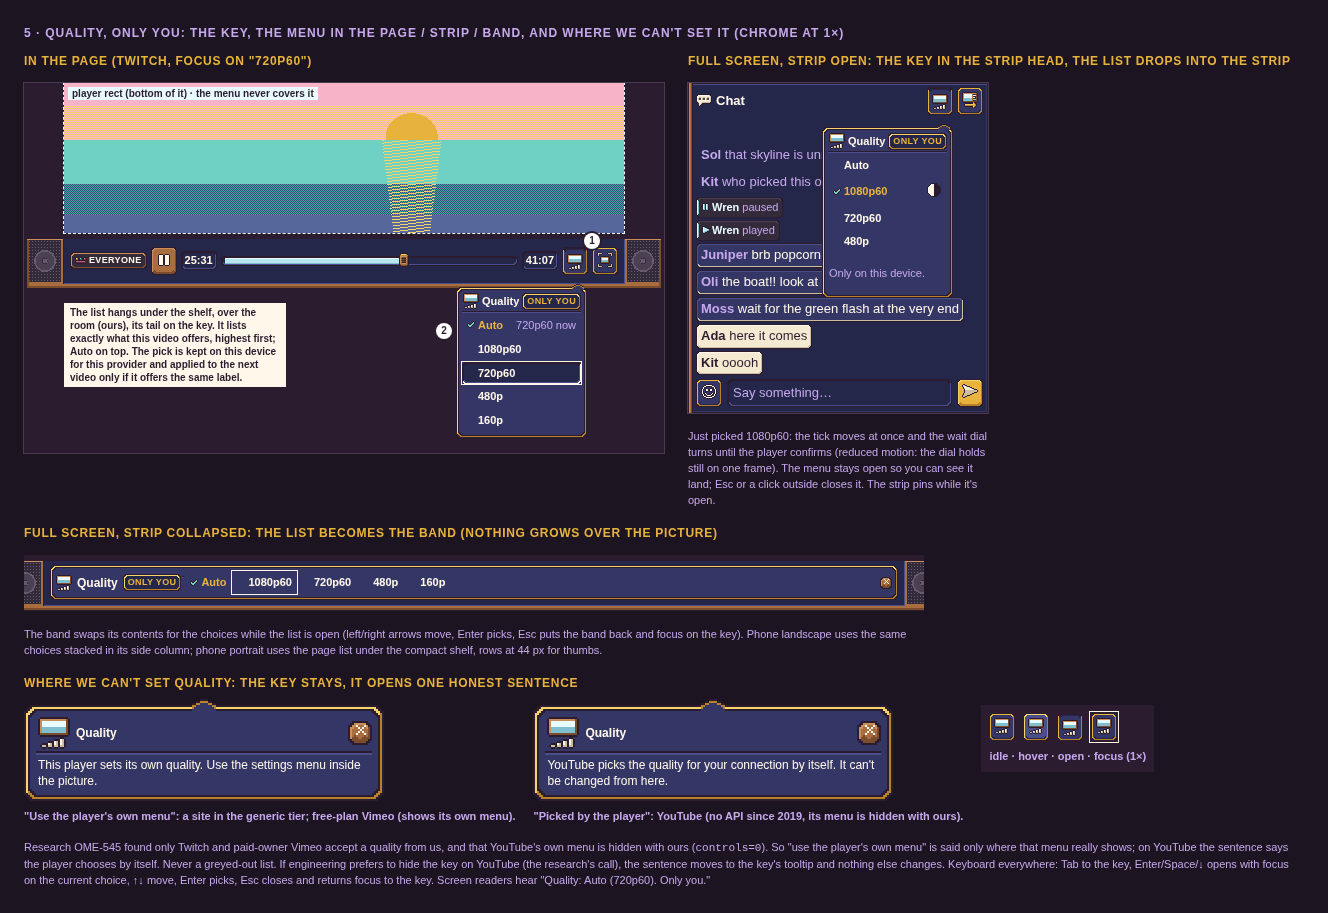
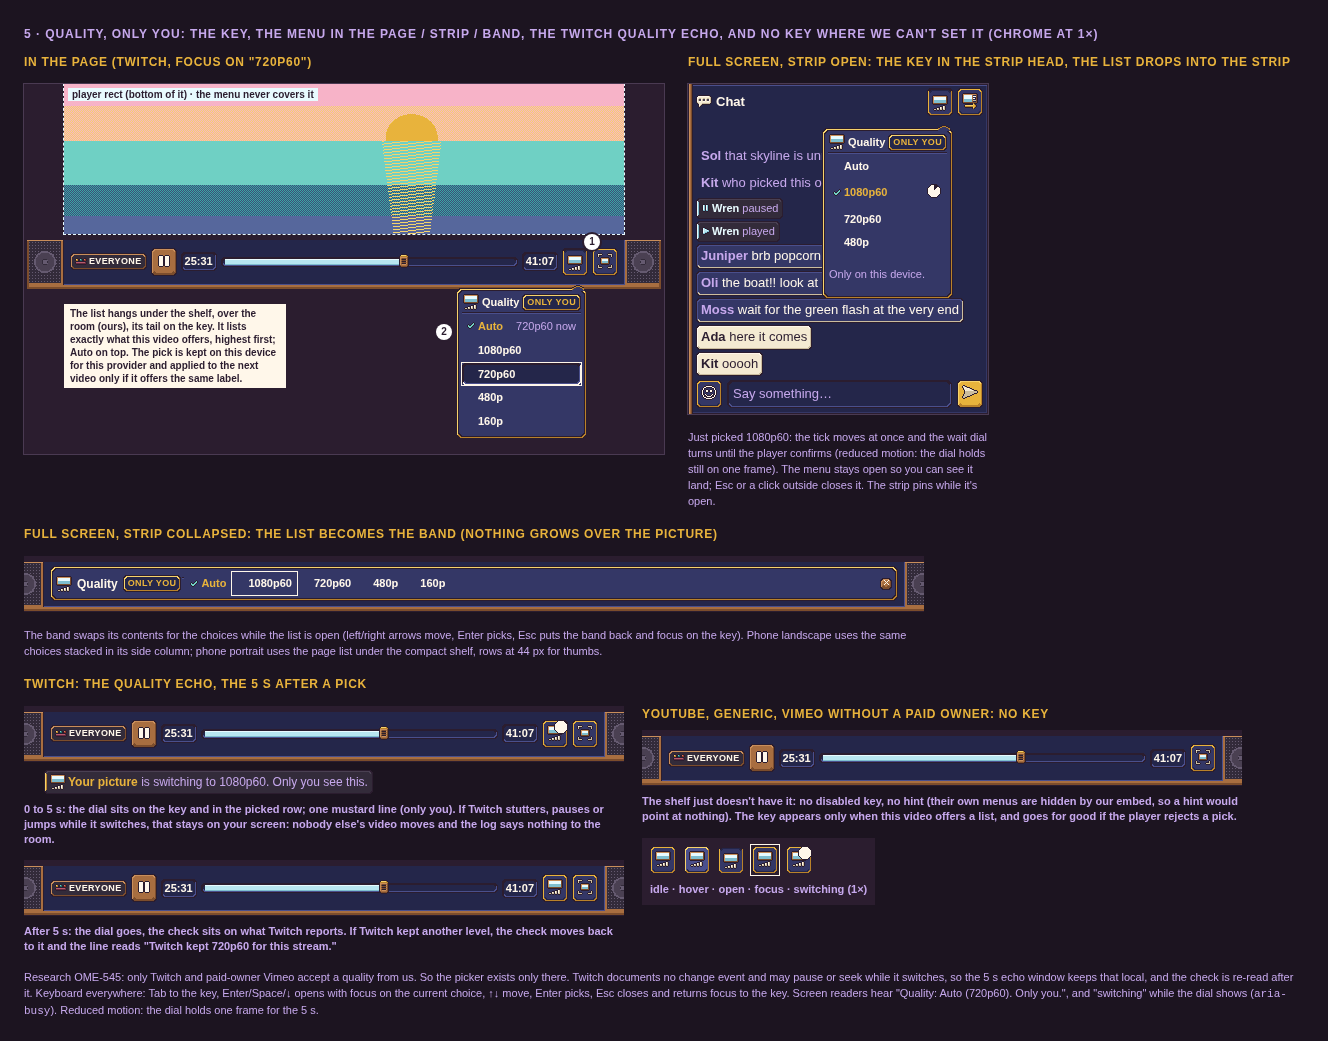
fix(assets): set (k) quality per OME-545 — no key where quality can't be set (no hint, no note state), Twitch quality echo state (5 s wait dial on the key, aria-busy, an only-you system line, then the check settles on what Twitch reports) (OME-541)

diff --git a/assets/preview/m7.html b/assets/preview/m7.html
@@ -362,7 +362,7 @@
 
 <!-- =============================================================== 5. quality (only you) -->
 <section id="m7-quality">
-  <h2>5 · Quality, only you: the key, the menu in the page / strip / band, and where we can't set it (chrome at 1×)</h2>
+  <h2>5 · Quality, only you: the key, the menu in the page / strip / band, the Twitch quality echo, and no key where we can't set it (chrome at 1×)</h2>
   <div class="row">
     <div class="col">
       <h3 class="cap">In the page (Twitch, focus on "720p60")</h3>
@@ -419,36 +419,33 @@
   </div>
   <div class="row" style="margin-top:16px">
     <div class="col">
-      <h3 class="cap">Where we can't set quality: the key stays, it opens one honest sentence</h3>
+      <h3 class="cap">Twitch: the quality echo, the 5 s after a pick</h3>
       <div class="row" style="gap:18px">
         <div class="col">
-          <div class="ui-emotes ui-modmenu ui-qmenu is-note is-below" role="dialog" aria-label="Quality">
-            <div class="head"><span class="ui-sprite ui-icon-quality"></span><span class="name">Quality</span><button class="ui-sprite ui-qx" aria-label="Close"></button></div>
-            <span class="ui-modsep"></span>
-            <p>This player sets its own quality. Use the settings menu inside the picture.</p>
-          </div>
-          <span class="lbl" style="font-size:11px;color:var(--ui-muted)">"Use the player's own menu": a site in the generic tier; free-plan Vimeo (shows its own menu).</span>
+          <div class="screen ui-room" style="width:600px;height:56px;outline:0"><div class="ui-tv-shelf" style="left:20px;top:6px;width:560px"><div class="ui-transport" role="group" aria-label="Shared playback: affects everyone"><span class="ui-chip"><span class="ui-sprite ui-glyph-everyone"></span>Everyone</span><button class="ui-button shared icon" aria-label="Pause for everyone"><span class="ui-sprite ui-icon-pause"></span></button><span class="ui-readout">25:31</span><div class="ui-seek" style="--pos:0.62"><span class="ui-seek-fill"></span><span class="ui-sprite ui-seek-head ui-seek-head-idle"></span></div><span class="ui-readout">41:07</span><button class="ui-button self icon is-switching" aria-label="Quality: switching to 1080p60. Only you." aria-busy="true"><span class="ui-sprite ui-icon-quality"></span><span class="ui-sprite ui-wait ui-wait-3" style="animation:none"></span></button><button class="ui-button self icon" aria-label="Full screen"><span class="ui-sprite ui-icon-fullscreen"></span></button></div></div></div>
+          <div class="ui-room hj-log" style="display:grid;gap:4px;padding-left:20px"><p class="ui-sysline self"><span class="ui-sprite ui-icon-quality"></span><span><b>Your picture</b> is switching to 1080p60. Only you see this.</span></p></div>
+          <span class="lbl" style="font-size:11px;color:var(--ui-muted);max-width:600px">0 to 5 s: the dial sits on the key and in the picked row; one mustard line (only you). If Twitch stutters, pauses or jumps while it switches, that stays on your screen: nobody else's video moves and the log says nothing to the room.</span>
+          <div class="screen ui-room" style="width:600px;height:56px;outline:0;margin-top:6px"><div class="ui-tv-shelf" style="left:20px;top:6px;width:560px"><div class="ui-transport" role="group" aria-label="Shared playback: affects everyone"><span class="ui-chip"><span class="ui-sprite ui-glyph-everyone"></span>Everyone</span><button class="ui-button shared icon" aria-label="Pause for everyone"><span class="ui-sprite ui-icon-pause"></span></button><span class="ui-readout">25:31</span><div class="ui-seek" style="--pos:0.62"><span class="ui-seek-fill"></span><span class="ui-sprite ui-seek-head ui-seek-head-idle"></span></div><span class="ui-readout">41:07</span><button class="ui-button self icon" aria-label="Quality: 1080p60. Only you."><span class="ui-sprite ui-icon-quality"></span></button><button class="ui-button self icon" aria-label="Full screen"><span class="ui-sprite ui-icon-fullscreen"></span></button></div></div></div>
+          <span class="lbl" style="font-size:11px;color:var(--ui-muted);max-width:600px">After 5 s: the dial goes, the check sits on what Twitch reports. If Twitch kept another level, the check moves back to it and the line reads "Twitch kept 720p60 for this stream."</span>
         </div>
         <div class="col">
-          <div class="ui-emotes ui-modmenu ui-qmenu is-note is-below" role="dialog" aria-label="Quality">
-            <div class="head"><span class="ui-sprite ui-icon-quality"></span><span class="name">Quality</span><button class="ui-sprite ui-qx" aria-label="Close"></button></div>
-            <span class="ui-modsep"></span>
-            <p>YouTube picks the quality for your connection by itself. It can't be changed from here.</p>
+          <h3 class="cap" style="margin:0">YouTube, generic, Vimeo without a paid owner: no key</h3>
+          <div class="screen ui-room" style="width:600px;height:56px;outline:0"><div class="ui-tv-shelf" style="left:20px;top:6px;width:560px"><div class="ui-transport" role="group" aria-label="Shared playback: affects everyone"><span class="ui-chip"><span class="ui-sprite ui-glyph-everyone"></span>Everyone</span><button class="ui-button shared icon" aria-label="Pause for everyone"><span class="ui-sprite ui-icon-pause"></span></button><span class="ui-readout">25:31</span><div class="ui-seek" style="--pos:0.62"><span class="ui-seek-fill"></span><span class="ui-sprite ui-seek-head ui-seek-head-idle"></span></div><span class="ui-readout">41:07</span><button class="ui-button self icon" aria-label="Full screen"><span class="ui-sprite ui-icon-fullscreen"></span></button></div></div></div>
+          <span class="lbl" style="font-size:11px;color:var(--ui-muted);max-width:600px">The shelf just doesn't have it: no disabled key, no hint (their own menus are hidden by our embed, so a hint would point at nothing). The key appears only when this video offers a list, and goes for good if the player rejects a pick.</span>
+          <div class="col ui-room" style="background:var(--ui-page);padding:8px;margin-top:6px">
+            <div class="row" style="gap:8px">
+              <button class="ui-button self icon" aria-label="Quality"><span class="ui-sprite ui-icon-quality"></span></button>
+              <button class="ui-button self icon is-hover" aria-label="Quality"><span class="ui-sprite ui-icon-quality"></span></button>
+              <button class="ui-button self icon is-press" aria-label="Quality"><span class="ui-sprite ui-icon-quality"></span></button>
+              <button class="ui-button self icon" style="outline:var(--ui-px) solid var(--ui-text);outline-offset:var(--ui-px)" aria-label="Quality"><span class="ui-sprite ui-icon-quality"></span></button>
+              <button class="ui-button self icon is-switching" aria-label="Quality: switching to 1080p60. Only you." aria-busy="true"><span class="ui-sprite ui-icon-quality"></span><span class="ui-sprite ui-wait ui-wait-3" style="animation:none"></span></button>
+            </div>
+            <span class="lbl" style="font-size:11px;color:var(--ui-muted)">idle · hover · open · focus · switching (1×)</span>
           </div>
-          <span class="lbl" style="font-size:11px;color:var(--ui-muted)">"Picked by the player": YouTube (no API since 2019, its menu is hidden with ours).</span>
-        </div>
-        <div class="col ui-room" style="background:var(--ui-page);padding:8px">
-          <div class="row" style="gap:8px">
-            <button class="ui-button self icon" aria-label="Quality"><span class="ui-sprite ui-icon-quality"></span></button>
-            <button class="ui-button self icon is-hover" aria-label="Quality"><span class="ui-sprite ui-icon-quality"></span></button>
-            <button class="ui-button self icon is-press" aria-label="Quality"><span class="ui-sprite ui-icon-quality"></span></button>
-            <button class="ui-button self icon" style="outline:var(--ui-px) solid var(--ui-text);outline-offset:var(--ui-px)" aria-label="Quality"><span class="ui-sprite ui-icon-quality"></span></button>
-          </div>
-          <span class="lbl" style="font-size:11px;color:var(--ui-muted)">idle · hover · open · focus (1×)</span>
         </div>
       </div>
-      <p class="cap-p">Research OME-545 found only Twitch and paid-owner Vimeo accept a quality from us, and that YouTube's own menu is hidden with ours (<code>controls=0</code>). So "use the player's own menu" is said only where that menu really shows; on YouTube the sentence says the player chooses by itself. Never a greyed-out list. If engineering prefers to hide the key on YouTube (the research's call), the sentence moves to the key's tooltip and nothing else changes.
-      Keyboard everywhere: Tab to the key, Enter/Space/↓ opens with focus on the current choice, ↑↓ move, Enter picks, Esc closes and returns focus to the key. Screen readers hear "Quality: Auto (720p60). Only you."</p>
+      <p class="cap-p">Research OME-545: only Twitch and paid-owner Vimeo accept a quality from us. So the picker exists only there. Twitch documents no change event and may pause or seek while it switches, so the 5 s echo window keeps that local, and the check is re-read after it.
+      Keyboard everywhere: Tab to the key, Enter/Space/↓ opens with focus on the current choice, ↑↓ move, Enter picks, Esc closes and returns focus to the key. Screen readers hear "Quality: Auto (720p60). Only you.", and "switching" while the dial shows (<code>aria-busy</code>). Reduced motion: the dial holds one frame for the 5 s.</p>
     </div>
   </div>
 </section>

diff --git a/assets/ui/reference.css b/assets/ui/reference.css
@@ -651,12 +651,14 @@ a.ui-card:hover, a.ui-card:focus-visible, .ui-card.is-hover { border-image-sourc
 .ui-qmenu.is-row { display: inline-flex; align-items: center; }
 .ui-qmenu.is-row::after { content: none; }
 .ui-qmenu.is-row .ui-modsep { width: calc(2 * var(--ui-px)); height: calc(14 * var(--ui-px)); }
-/* Where we can't set quality the key stays, and opens one sentence instead of a list (.ui-qmenu.is-note). Two honest variants:
- * "Use the player's own menu" (the provider shows its own settings: generic tier, free-plan Vimeo) and "Picked by the player"
- * (YouTube: automatic, no menu anywhere). No disabled list, no fake choices. */
-.ui-qmenu.is-note { max-width: calc(180 * var(--ui-px)); }
-.ui-qmenu.is-note p { margin: 0; padding: 0 calc(1 * var(--ui-px)); font-size: 12px; font-weight: 500; color: var(--ui-text); line-height: 1.35; }
-.ui-room .ui-qmenu.is-note p { font-size: 11px; }
+/* Where we can't set quality (YouTube, generic tier, Vimeo without a paid owner) there is no key at all: no disabled list, no hint
+ * (research OME-545: the provider's own menu is hidden by our controls=0, so a hint would point at nothing). Show the key only when the
+ * adapter reports a non-empty list; if a set is rejected, hide it from then on.
+ * Quality echo (Twitch): for 5 s after a pick, .ui-button.is-switching carries the wait dial on the key, the picked row shows it too,
+ * and one .ui-sysline.self says only you see the switch. Any pause/play or seek Twitch makes in that window stays on your screen
+ * (the adapter ignores it), then the check settles on what the player reports. */
+.ui-button.self.is-switching { position: relative; }
+.ui-button.self.is-switching .ui-wait { position: absolute; right: calc(-6 * var(--ui-px)); top: calc(-6 * var(--ui-px)); }
 
 /* ---- Item 6, report this room. A quiet secondary key with icon/report at the end of the room bar's info line (never beside Leave
  * or the host's tools); hidden in rooms you own. The dialog is a plain .ui-panel on the scrim, role="dialog" aria-modal, focus

diff --git a/assets/src/fullscreen.ts b/assets/src/fullscreen.ts
@@ -376,12 +376,14 @@ export function fullscreenCss(): string {
 .ui-qmenu.is-row { display: inline-flex; align-items: center; }
 .ui-qmenu.is-row::after { content: none; }
 .ui-qmenu.is-row .ui-modsep { width: ${u(2)}; height: ${u(14)}; }
-/* Where we can't set quality the key stays, and opens one sentence instead of a list (.ui-qmenu.is-note). Two honest variants:
- * "Use the player's own menu" (the provider shows its own settings: generic tier, free-plan Vimeo) and "Picked by the player"
- * (YouTube: automatic, no menu anywhere). No disabled list, no fake choices. */
-.ui-qmenu.is-note { max-width: ${u(180)}; }
-.ui-qmenu.is-note p { margin: 0; padding: 0 ${u(1)}; font-size: 12px; font-weight: 500; color: var(--ui-text); line-height: 1.35; }
-.ui-room .ui-qmenu.is-note p { font-size: 11px; }
+/* Where we can't set quality (YouTube, generic tier, Vimeo without a paid owner) there is no key at all: no disabled list, no hint
+ * (research OME-545: the provider's own menu is hidden by our controls=0, so a hint would point at nothing). Show the key only when the
+ * adapter reports a non-empty list; if a set is rejected, hide it from then on.
+ * Quality echo (Twitch): for 5 s after a pick, .ui-button.is-switching carries the wait dial on the key, the picked row shows it too,
+ * and one .ui-sysline.self says only you see the switch. Any pause/play or seek Twitch makes in that window stays on your screen
+ * (the adapter ignores it), then the check settles on what the player reports. */
+.ui-button.self.is-switching { position: relative; }
+.ui-button.self.is-switching .ui-wait { position: absolute; right: ${u(-6)}; top: ${u(-6)}; }
 
 /* ---- Item 6, report this room. A quiet secondary key with icon/report at the end of the room bar's info line (never beside Leave
  * or the host's tools); hidden in rooms you own. The dialog is a plain .ui-panel on the scrim, role="dialog" aria-modal, focus

diff --git a/assets/README.md b/assets/README.md
@@ -511,7 +511,7 @@ into `preview/ui-m7-<pieces|desktop|band|phone|popout|away|watch|quality|report|
 | `icon/popout`, `icon/popout-room` | 16×16 | — | Pop out the chat (at the end of the chat row) · the whole room (in the room's top bar). A wood window with a bubble / a floor tile and seat, the mustard arrow leaving through its open corner. Desktop only. |
 | `icon/popout-back`, `icon/popout-room-back` | 16×16 | — | Bring it back: in the popped-out window's head and on the page placeholder (`.ui-button.self` with the words). The arrow comes in. |
 | `scene/<chat\|room>-away` *(ui/scenes/\*.png)* | 56×40 | — | `.ui-scene.ui-scene-<chat\|room>-away` in `.ui-panel.ui-away` (a `role=status` placeholder where the chat row or the stage was). The room's wall with a wood window: through it two bubbles / the floor with two chairs facing the TV's glow; on this side a dashed ghost; a mustard arrow to the window. |
-| `icon/quality` | 16×16 | — | `.ui-button.self.icon` at the end of the shelf before full screen (in full screen: the strip head), `aria-haspopup="menu"`, label "Quality: Auto (720p60). Only you." Opens `.ui-emotes.ui-modmenu.ui-qmenu.is-below` (`role=menu`): `.ui-modrow[role=menuitemradio][aria-checked]` with a `glyph/check` (hidden unless checked) and an optional `.q-note`; `.foot` "Only on this device." Collapsed strip: `.ui-qmenu.is-row` replaces the band. No API: `.ui-qmenu.is-note` with one `<p>` (two sentences, see STYLE). |
+| `icon/quality` | 16×16 | — | `.ui-button.self.icon` at the end of the shelf before full screen (in full screen: the strip head), `aria-haspopup="menu"`, label "Quality: Auto (720p60). Only you." Opens `.ui-emotes.ui-modmenu.ui-qmenu.is-below` (`role=menu`): `.ui-modrow[role=menuitemradio][aria-checked]` with a `glyph/check` (hidden unless checked) and an optional `.q-note`; `.foot` "Only on this device." Collapsed strip: `.ui-qmenu.is-row` replaces the band. No API (YouTube, generic, Vimeo without a paid owner): no key at all. Twitch quality echo: `.ui-button.self.is-switching` + `aria-busy` with a `.ui-wait` on the key for 5 s, and one `.ui-sysline.self` (see STYLE). |
 | `icon/report` | 16×16 | — | "Report room" on a `.ui-button.secondary` with words (foot of the chat column / last line of the phone page; hidden for owners). Opens `form.ui-panel.ui-report[role=dialog][aria-modal]`: `h2`, `p`, `fieldset` of `label.ui-reason` (visually hidden `input[type=radio]` + `glyph/radio-off\|on`; `.is-focus` = `:focus-within`), `textarea.ui-input` (300) + `.count`, `.acts` (Cancel `.secondary`, Send). |
 | `glyph/radio-off`, `glyph/radio-on` | 8×8 | — | The report reasons. A cream-shade ring round a night well; picked = cream ring and pip. |
 

diff --git a/assets/STYLE.md b/assets/STYLE.md
@@ -341,9 +341,11 @@ Three directions were weighed before any pixels:
   rows are `menuitemradio` with the check on the current one; it lists exactly what this video offers, Auto on top ("720p60 now" beside it). It always opens into our own
   space: under the shelf in the page (tail up), down inside the strip in full screen (the key moves to the strip head), and as a row that replaces the band when the
   strip is collapsed. A pick shows the check at once and set (c)'s wait dial in its row until the player confirms. Kept on this device, never sent to the room.
-  **Where we can't set it** the key stays and opens one sentence, never a greyed list: "This player sets its own quality. Use the settings menu inside the picture."
-  where that menu really shows (generic tier, free-plan Vimeo), and "YouTube picks the quality for your connection by itself. It can't be changed from here." on
-  YouTube (its menu is hidden with ours; research OME-545). If engineering hides the key there instead, the sentence becomes its tooltip.
+  **Where we can't set it there is no key** (YouTube, the generic tier, Vimeo without a paid owner; research OME-545): no disabled list and no hint,
+  because our embed hides those players' own menus, so a hint would point at nothing. The key appears only when this video offers a list, and goes for good if
+  the player rejects a pick. **Quality echo (Twitch):** for the 5 s after a pick the key and the picked row carry the wait dial (`.is-switching`, `aria-busy`),
+  and one mustard `.ui-sysline.self` says "Your picture is switching to 1080p60. Only you see this." Any pause or jump Twitch makes while switching stays on
+  your screen (the adapter ignores it, so nobody else's video moves); then the check settles on what Twitch reports ("Twitch kept 720p60 for this stream" if it didn't take).
 - **Report this room (item 6):** plain and calm. A secondary key with words, "Report room" with `icon/report` (a cream pennant on a wood pole: no red, no siren), at the
   foot of the chat column (desktop, pop-out room window) or the last line of the page (phone); never beside Leave or the host's tools, not in rooms you own, not in
   full screen. The dialog is the everyday `.ui-panel` on the dither scrim: a title, one sentence on who reads it, six reasons as radio rows (`glyph/radio-off|on`:
